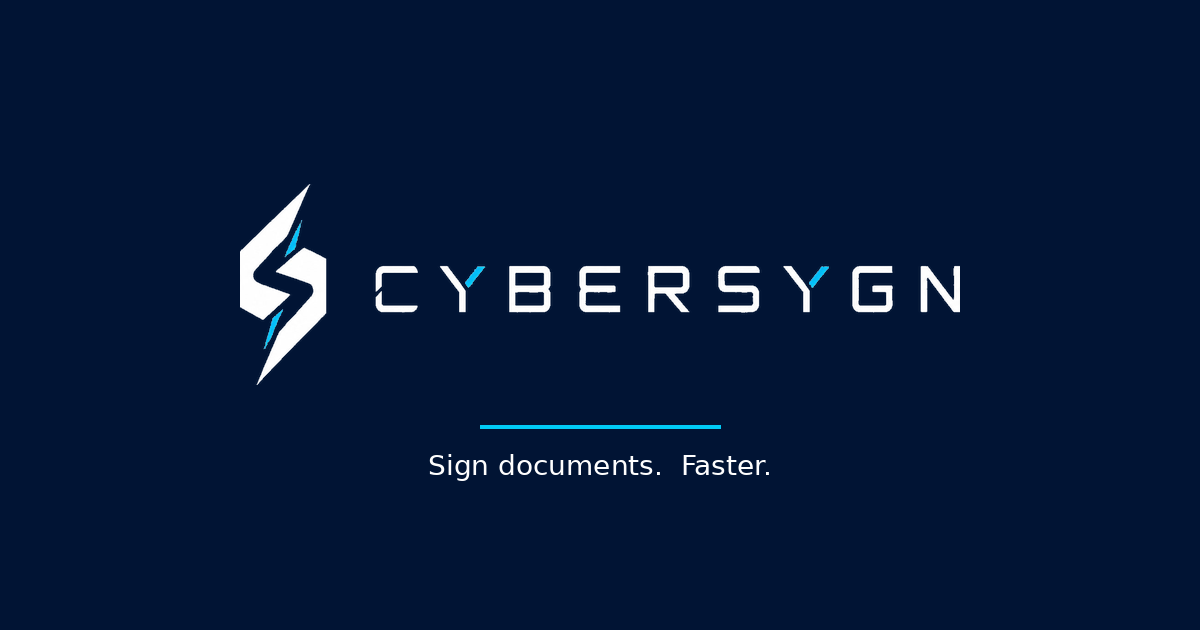
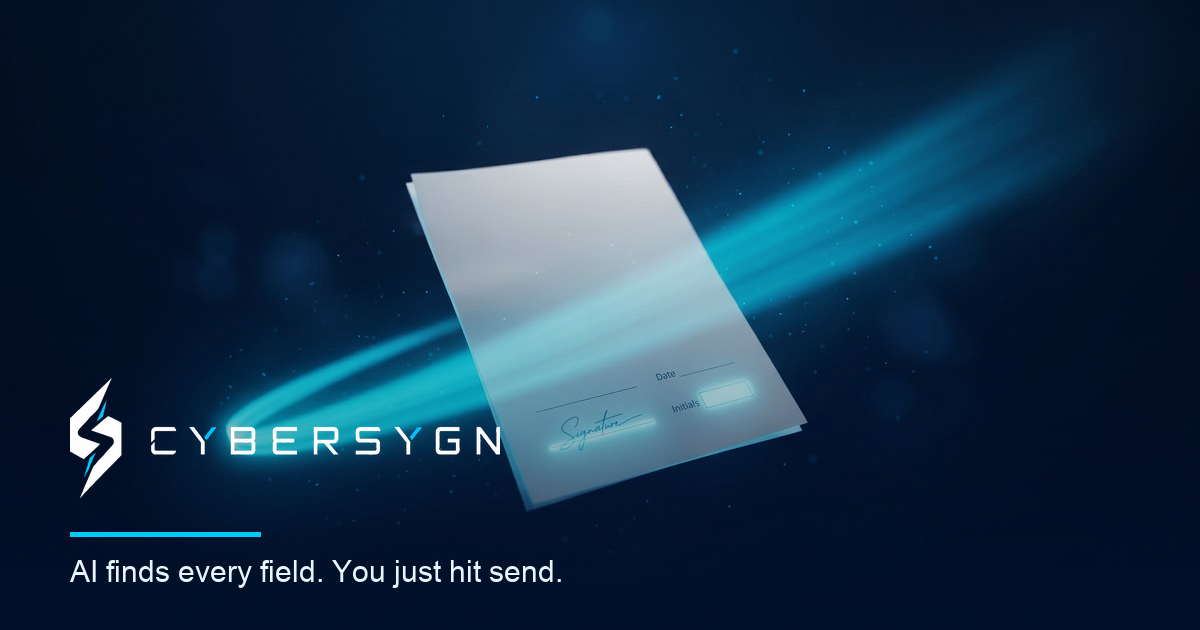
UXI elevation wave 1: cinematic assets + living detection moment + tactile motion
Higgsfield-generated brand cinema, wired in three ways across all three lanes:

Atmospheric cinema
- New cinematic OG/social card: white contract in navy space with a cyan
  light sweep, the CyberSygn wordmark + accent rule + "AI finds every field.
  You just hit send." composited lower-left. Replaces the flat navy lockup
  card on every share across ~200 pages (same og-image.png filename, so all
  pages inherit it). gen-brand-derivatives.py now composites over the
  committed og-bg.jpg so future regenerations keep the cinematic card.

Living product moment
- Field-detection showcase in the "How it works" section: the product's
  actual magic (scan line detecting Signature / Date / Initials fields in
  HUD brackets) as a framed, captioned still (scan-detect.jpg, 82KB).
- Field boxes now "ignite" as the AI finds them: a cyan glow flares as each
  box snaps in, staggered so detection reads as an active, alive moment.

Signature motion
- motion.js: magnetic primary CTAs that lean toward the cursor and spring
  back. Desktop-only (pointer: fine), fully off under reduced-motion,
  capped so the button never drifts off its label. Verified live: 10 CTAs
  magnetized, no console errors.

Guardrails held: reveals rest visible (never gate visibility on animation),
reduced-motion safe, zero em-dashes, sw CACHE_VERSION bumped to v3.
Built, deployed, live-verified on cybersygn.io (OG byte-matched, section
renders, image loads 1600x900).

Changed region(s): [[0.0308, 0.1206, 0.8942, 0.8143], [0.0617, 0.8444, 0.4625, 0.9349], [0.4625, 0.0, 0.555, 0.1206]]

diff --git a/web/styles.css b/web/styles.css
@@ -429,6 +429,16 @@ button { font: inherit; cursor: pointer; }
   white-space: nowrap;
 }
 .btn:active { transform: translateY(1px); }
+/* Magnetic CTAs (motion.js, desktop only): the button follows the cursor a
+   little, then springs back. A gentle spring transition smooths the follow and
+   the return without fighting the per-frame updates. */
+.btn.is-magnetic {
+  transition: transform 220ms var(--ease-spring),
+              background-color 160ms var(--ease),
+              border-color 160ms var(--ease),
+              color 160ms var(--ease);
+  will-change: transform;
+}
 .btn:disabled { opacity: 0.4; cursor: not-allowed; }
 .btn:disabled:active { transform: none; }
 
@@ -2260,6 +2270,68 @@ button { font: inherit; cursor: pointer; }
 }
 .step__title { margin: 0 0 var(--s-3); }
 .step__body { color: var(--text-2); font-size: var(--t-s); line-height: 1.6; margin: 0; }
+
+/* Field-detection showcase: the cinematic key visual of the product finding
+   the fields, framed like a screen. A cyan beam sweeps down the frame once
+   when it scrolls into view, so "detection" reads as a live moment. The image
+   is fully visible on its own; the beam is decorative and reduced-motion safe. */
+.scanshow {
+  max-width: 940px;
+  margin: 0 auto var(--s-8);
+}
+.scanshow__frame {
+  position: relative;
+  overflow: hidden;
+  border-radius: 20px;
+  border: 1px solid rgba(0, 203, 246, 0.28);
+  background: #011434;
+  line-height: 0;
+  box-shadow: 0 30px 80px -34px rgba(1, 20, 52, 0.72),
+              0 0 0 1px rgba(255, 255, 255, 0.02) inset;
+}
+.scanshow__img {
+  display: block;
+  width: 100%;
+  height: auto;
+  aspect-ratio: 16 / 9;
+  object-fit: cover;
+}
+.scanshow__beam {
+  position: absolute;
+  left: 0;
+  right: 0;
+  top: -32%;
+  height: 32%;
+  pointer-events: none;
+  opacity: 0;
+  mix-blend-mode: screen;
+  background: linear-gradient(180deg,
+    rgba(0, 203, 246, 0) 0%,
+    rgba(0, 203, 246, 0.32) 45%,
+    rgba(190, 244, 255, 0.9) 50%,
+    rgba(0, 203, 246, 0.32) 55%,
+    rgba(0, 203, 246, 0) 100%);
+}
+@keyframes scan-sweep {
+  0%   { transform: translateY(-40%); opacity: 0; }
+  14%  { opacity: 1; }
+  86%  { opacity: 1; }
+  100% { transform: translateY(360%); opacity: 0; }
+}
+.scanshow[data-reveal="visible"] .scanshow__beam {
+  animation: scan-sweep 2.3s var(--ease) 220ms 2 both;
+}
+.scanshow__cap {
+  margin: var(--s-4) auto 0;
+  max-width: 620px;
+  text-align: center;
+  color: var(--text-2);
+  font-size: var(--t-s);
+  line-height: 1.6;
+}
+@media (prefers-reduced-motion: reduce) {
+  .scanshow[data-reveal="visible"] .scanshow__beam { animation: none; }
+}
 
 /* ========================================================================
    12. PRICING
@@ -7551,13 +7623,16 @@ details[open] > .field-list__group--toggle::after {
 /* Staggered detection reveal: each box has a per-element delay set via
    CSS custom property --reveal-delay; the keyframe runs once on first
    paint and lands the box in place. Reduced-motion users skip it. */
+/* Each field "ignites" as the AI finds it: a cyan glow flares as the box
+   snaps in, then settles. The stagger (--reveal-delay) makes them light up
+   one after another, so detection reads as an active, alive moment. */
 @keyframes field-box-reveal {
-  0%   { opacity: 0; transform: scale(0.82); }
-  60%  { opacity: 1; transform: scale(1.04); }
-  100% { opacity: 1; transform: scale(1); }
+  0%   { opacity: 0; transform: scale(0.8);  box-shadow: 0 0 0 0 rgba(0,203,246,0); }
+  45%  { opacity: 1; transform: scale(1.08); box-shadow: 0 0 26px 3px var(--accent-glow); }
+  100% { opacity: 1; transform: scale(1);    box-shadow: 0 0 0 0 rgba(0,203,246,0); }
 }
 .field-box[data-reveal="true"] {
-  animation: field-box-reveal 360ms var(--ease-spring) backwards;
+  animation: field-box-reveal 460ms var(--ease-spring) backwards;
   animation-delay: var(--reveal-delay, 0ms);
 }
 @media (prefers-reduced-motion: reduce) {

diff --git a/web/motion.js b/web/motion.js
@@ -1,0 +1,49 @@
+/**
+ * Tactile interaction layer. Additive feel only, no layout or logic changes.
+ *
+ * Magnetic primary CTAs: while the cursor is over a primary/large button it
+ * leans subtly toward the pointer and springs back on leave, so the most
+ * important actions feel physical and alive.
+ *
+ * Guardrails: desktop pointers only (pointer: fine), fully disabled under
+ * prefers-reduced-motion, and the button always rests at its natural position
+ * (transform is cleared on leave), so visibility never depends on this script.
+ */
+(function motionLayer() {
+  if (typeof window === 'undefined' || typeof document === 'undefined') return;
+  const fine = window.matchMedia && window.matchMedia('(pointer: fine)').matches;
+  const reduced = window.matchMedia && window.matchMedia('(prefers-reduced-motion: reduce)').matches;
+  if (!fine || reduced) return;
+
+  const STRENGTH = 0.26;   // fraction of the cursor offset the button follows
+  const MAX = 7;           // px cap so the button never drifts off its label
+
+  function magnetize(btn) {
+    let raf = 0;
+    function onMove(e) {
+      const r = btn.getBoundingClientRect();
+      const dx = e.clientX - (r.left + r.width / 2);
+      const dy = e.clientY - (r.top + r.height / 2);
+      cancelAnimationFrame(raf);
+      raf = requestAnimationFrame(() => {
+        const tx = Math.max(-MAX, Math.min(MAX, dx * STRENGTH));
+        const ty = Math.max(-MAX, Math.min(MAX, dy * STRENGTH));
+        btn.style.transform = `translate(${tx}px, ${ty}px)`;
+      });
+    }
+    function reset() { cancelAnimationFrame(raf); btn.style.transform = ''; }
+    btn.addEventListener('pointermove', onMove);
+    btn.addEventListener('pointerleave', reset);
+    btn.addEventListener('blur', reset);
+  }
+
+  function init() {
+    document.querySelectorAll('.btn--primary, .btn--lg').forEach(b => {
+      b.classList.add('is-magnetic');
+      magnetize(b);
+    });
+  }
+  if (document.readyState === 'loading') {
+    document.addEventListener('DOMContentLoaded', init, { once: true });
+  } else { init(); }
+})();

diff --git a/web/index.html b/web/index.html
@@ -260,6 +260,7 @@
   
   <script src="/telemetry.js"></script>
   <script src="/polish.js" defer></script>
+  <script src="/motion.js" defer></script>
   <script src="/cinematic-hero.js" defer></script>
   <script src="/conversion.js" defer></script>
   <!-- Standalone app layer: bottom shell + app-first home (marketing DOM stays
@@ -629,6 +630,18 @@
           You get the signed PDF and a tamper-evident audit certificate the moment the last signer completes.
         </p>
       </header>
+
+      <figure class="scanshow" data-reveal>
+        <div class="scanshow__frame">
+          <img class="scanshow__img" src="/brand/scan-detect.jpg" width="1600" height="900"
+               loading="lazy" decoding="async"
+               alt="CyberSygn detecting the signature line, date, and initials fields on a contract." />
+          <span class="scanshow__beam" aria-hidden="true"></span>
+        </div>
+        <figcaption class="scanshow__cap">
+          The moment you upload, detection sweeps the page and lights up every field it finds. No dragging boxes. No setup.
+        </figcaption>
+      </figure>
 
       <ol class="steps">
         <li class="step">

diff --git a/scripts/build-web.js b/scripts/build-web.js
@@ -80,6 +80,8 @@ async function main() {
   console.log('  wrote dist/telemetry.js');
   await copyFile(join(SRC, 'polish.js'), join(OUT, 'polish.js'));
   console.log('  wrote dist/polish.js');
+  await copyFile(join(SRC, 'motion.js'), join(OUT, 'motion.js'));
+  console.log('  wrote dist/motion.js');
   await copyFile(join(SRC, 'cinematic-hero.js'), join(OUT, 'cinematic-hero.js'));
   console.log('  wrote dist/cinematic-hero.js');
   await copyFile(join(SRC, 'embed.js'), join(OUT, 'embed.js'));

diff --git a/web/sw.js b/web/sw.js
@@ -16,7 +16,7 @@
  * Bump CACHE_VERSION to invalidate everything on the next visit.
  */
 
-const CACHE_VERSION = 'cybersygn-v2';
+const CACHE_VERSION = 'cybersygn-v3';
 const OFFLINE_URL = '/offline.html';
 const PRECACHE = [
   OFFLINE_URL,

diff --git a/web/polish.js b/web/polish.js
@@ -45,6 +45,7 @@
     '.demo-doc',
     '.section__head',
     '.section__lede',
+    '.scanshow',
     '.steps .step',
     '.tier',
     '.compare-table-wrap',

diff --git a/scripts/gen-brand-derivatives.py b/scripts/gen-brand-derivatives.py
@@ -61,46 +61,57 @@ def make_square(img, size, padding=0.12):
 
 
 def make_og_image(lockup_path, out_path):
-    """1200x630 social-sharing card. Lockup centered with a thin
-    accent rule below."""
+    """1200x630 social-sharing card: the cinematic key visual (a contract in
+    navy space with a cyan light sweep, og-bg.jpg) with the white wordmark and
+    a tagline set into the lower-left over a soft scrim so it stays legible."""
     W, H = 1200, 630
-    canvas = Image.new('RGBA', (W, H), (1, 20, 52, 255))   # solid navy background
+    ACCENT = (0, 203, 246)
+    NAVY = (1, 20, 52)
 
-    # Place the white lockup centered with a max width of 720px.
+    bg_path = BRAND_DIR / 'og-bg.jpg'
+    if bg_path.exists():
+        card = Image.open(bg_path).convert('RGBA').resize((W, H), Image.LANCZOS)
+    else:
+        # Fallback to a solid navy field if the key visual is missing.
+        card = Image.new('RGBA', (W, H), NAVY + (255,))
+
+    # Vertical navy scrim, darkest toward the bottom, to seat the wordmark.
+    scrim = Image.new('L', (W, H), 0)
+    sd = ImageDraw.Draw(scrim)
+    for i in range(H):
+        sd.line([(0, i), (W, i)], fill=int(150 * (i / H) ** 1.6))
+    card = Image.composite(Image.new('RGBA', (W, H), NAVY + (255,)), card, scrim)
+
+    draw = ImageDraw.Draw(card)
+
+    # White wordmark, lower-left.
     lockup = Image.open(BRAND_DIR / 'lockup-white.png').convert('RGBA')
-    max_w = 720
+    target_w = 430
     lw, lh = lockup.size
-    scale = max_w / lw
-    new_w = max_w
-    new_h = int(round(lh * scale))
-    resized = lockup.resize((new_w, new_h), Image.LANCZOS)
-    x = (W - new_w) // 2
-    y = (H - new_h) // 2 - 30
-    canvas.paste(resized, (x, y), resized)
+    new_h = int(round(lh * target_w / lw))
+    lockup = lockup.resize((target_w, new_h), Image.LANCZOS)
+    lx = 70
+    ly = H - new_h - 132
+    card.paste(lockup, (lx, ly), lockup)
 
-    # Accent rule beneath
-    rule_y = y + new_h + 40
-    rule_w = 240
-    rule_x = (W - rule_w) // 2
-    draw = ImageDraw.Draw(canvas)
-    draw.rectangle([rule_x, rule_y, rule_x + rule_w, rule_y + 3],
-                   fill=(0, 203, 246, 255))
-
-    # Tagline below the rule. Use the default PIL font (small but
-    # readable); the OG card is for social previews so finesse is
-    # secondary to "the wordmark is recognizable at thumbnail size."
-    tagline = 'Sign documents.  Faster.'
-    try:
-        # Try to use a system font for a nicer rendering
-        font = ImageFont.truetype('/usr/share/fonts/truetype/dejavu/DejaVuSans.ttf', 28)
-    except Exception:
+    # Cyan accent rule + tagline beneath the wordmark.
+    ry = ly + new_h + 34
+    draw.rectangle([lx, ry, lx + 190, ry + 4], fill=ACCENT + (255,))
+    tagline = 'AI finds every field. You just hit send.'
+    font = None
+    for path in ['/System/Library/Fonts/Supplemental/Arial.ttf',
+                 '/System/Library/Fonts/Helvetica.ttc',
+                 '/usr/share/fonts/truetype/dejavu/DejaVuSans.ttf']:
+        try:
+            font = ImageFont.truetype(path, 30)
+            break
+        except Exception:
+            pass
+    if font is None:
         font = ImageFont.load_default()
-    bbox = draw.textbbox((0, 0), tagline, font=font)
-    text_w = bbox[2] - bbox[0]
-    draw.text(((W - text_w) // 2, rule_y + 24), tagline,
-              fill=(254, 254, 254, 220), font=font)
+    draw.text((lx, ry + 22), tagline, fill=(235, 245, 255, 240), font=font)
 
-    canvas.save(out_path, 'PNG', optimize=True)
+    card.convert('RGB').save(out_path, 'PNG', optimize=True)
 
 
 def main():
